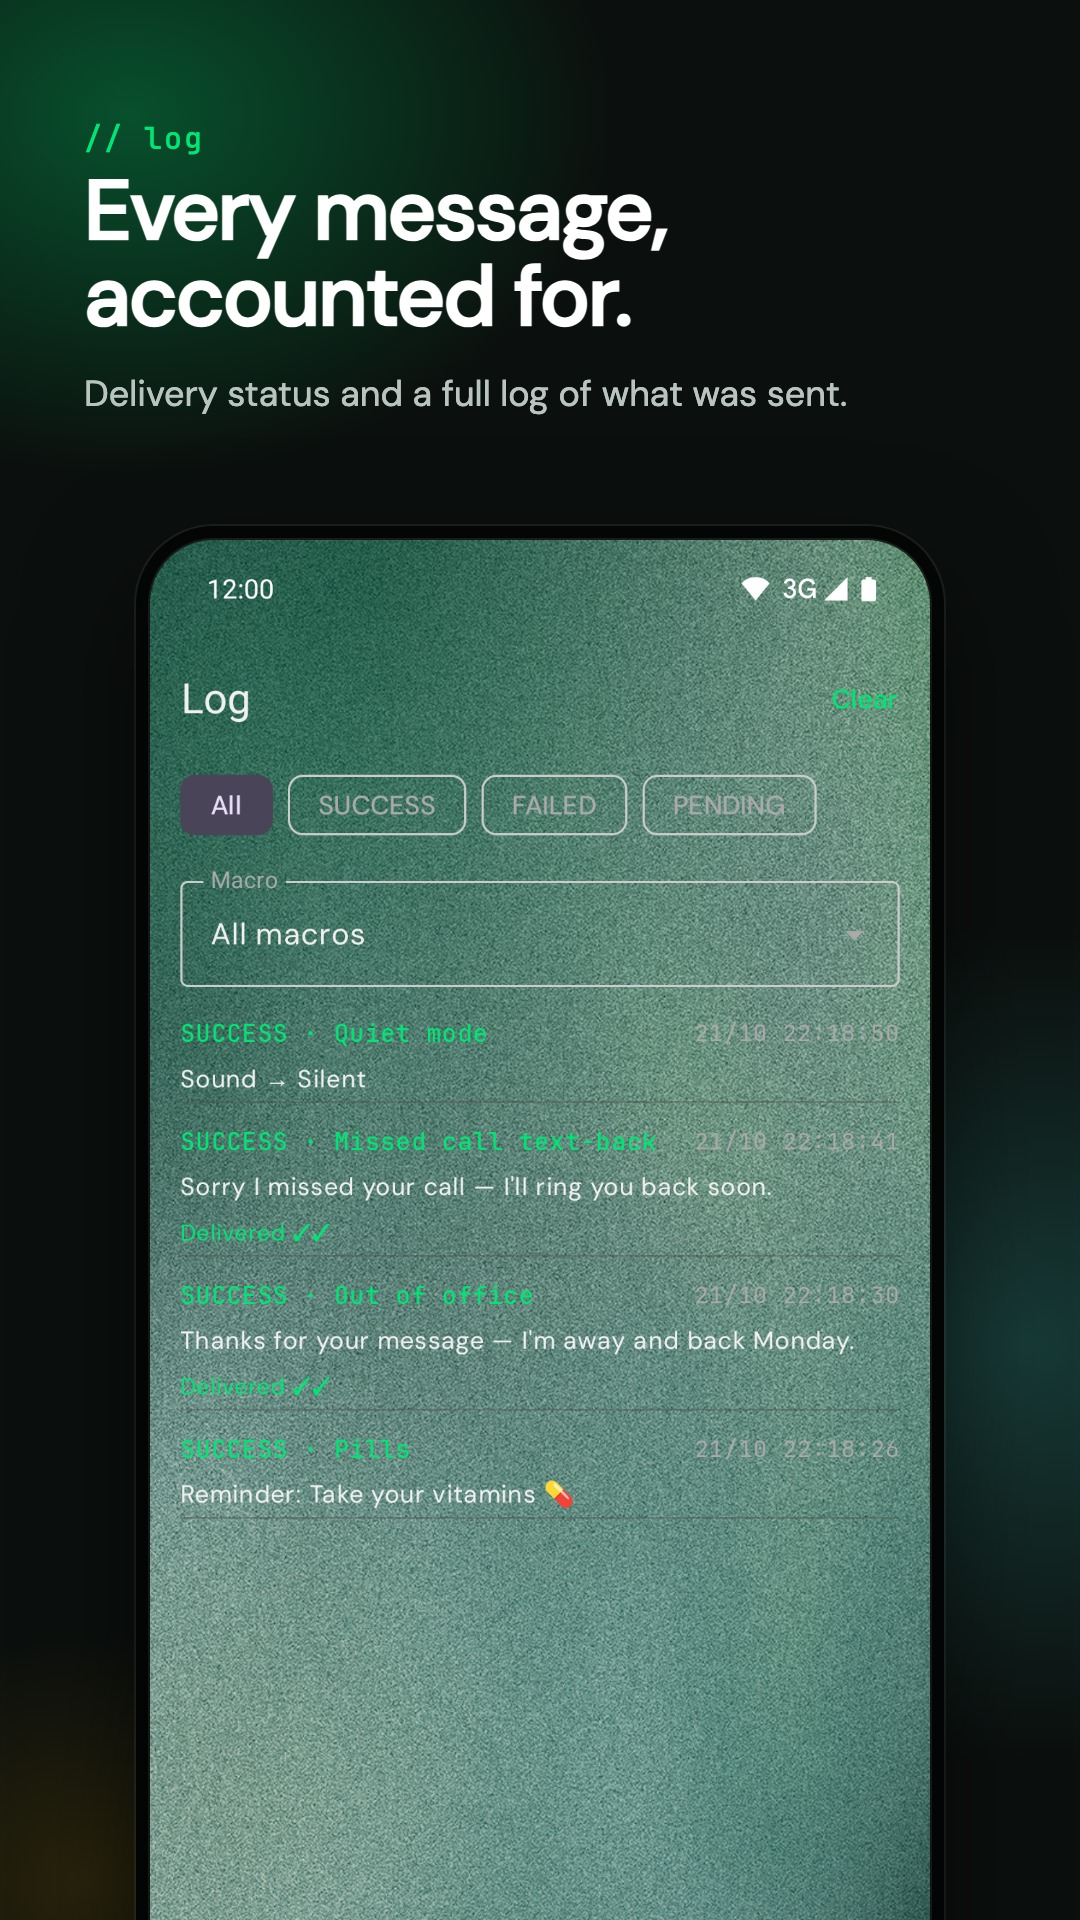
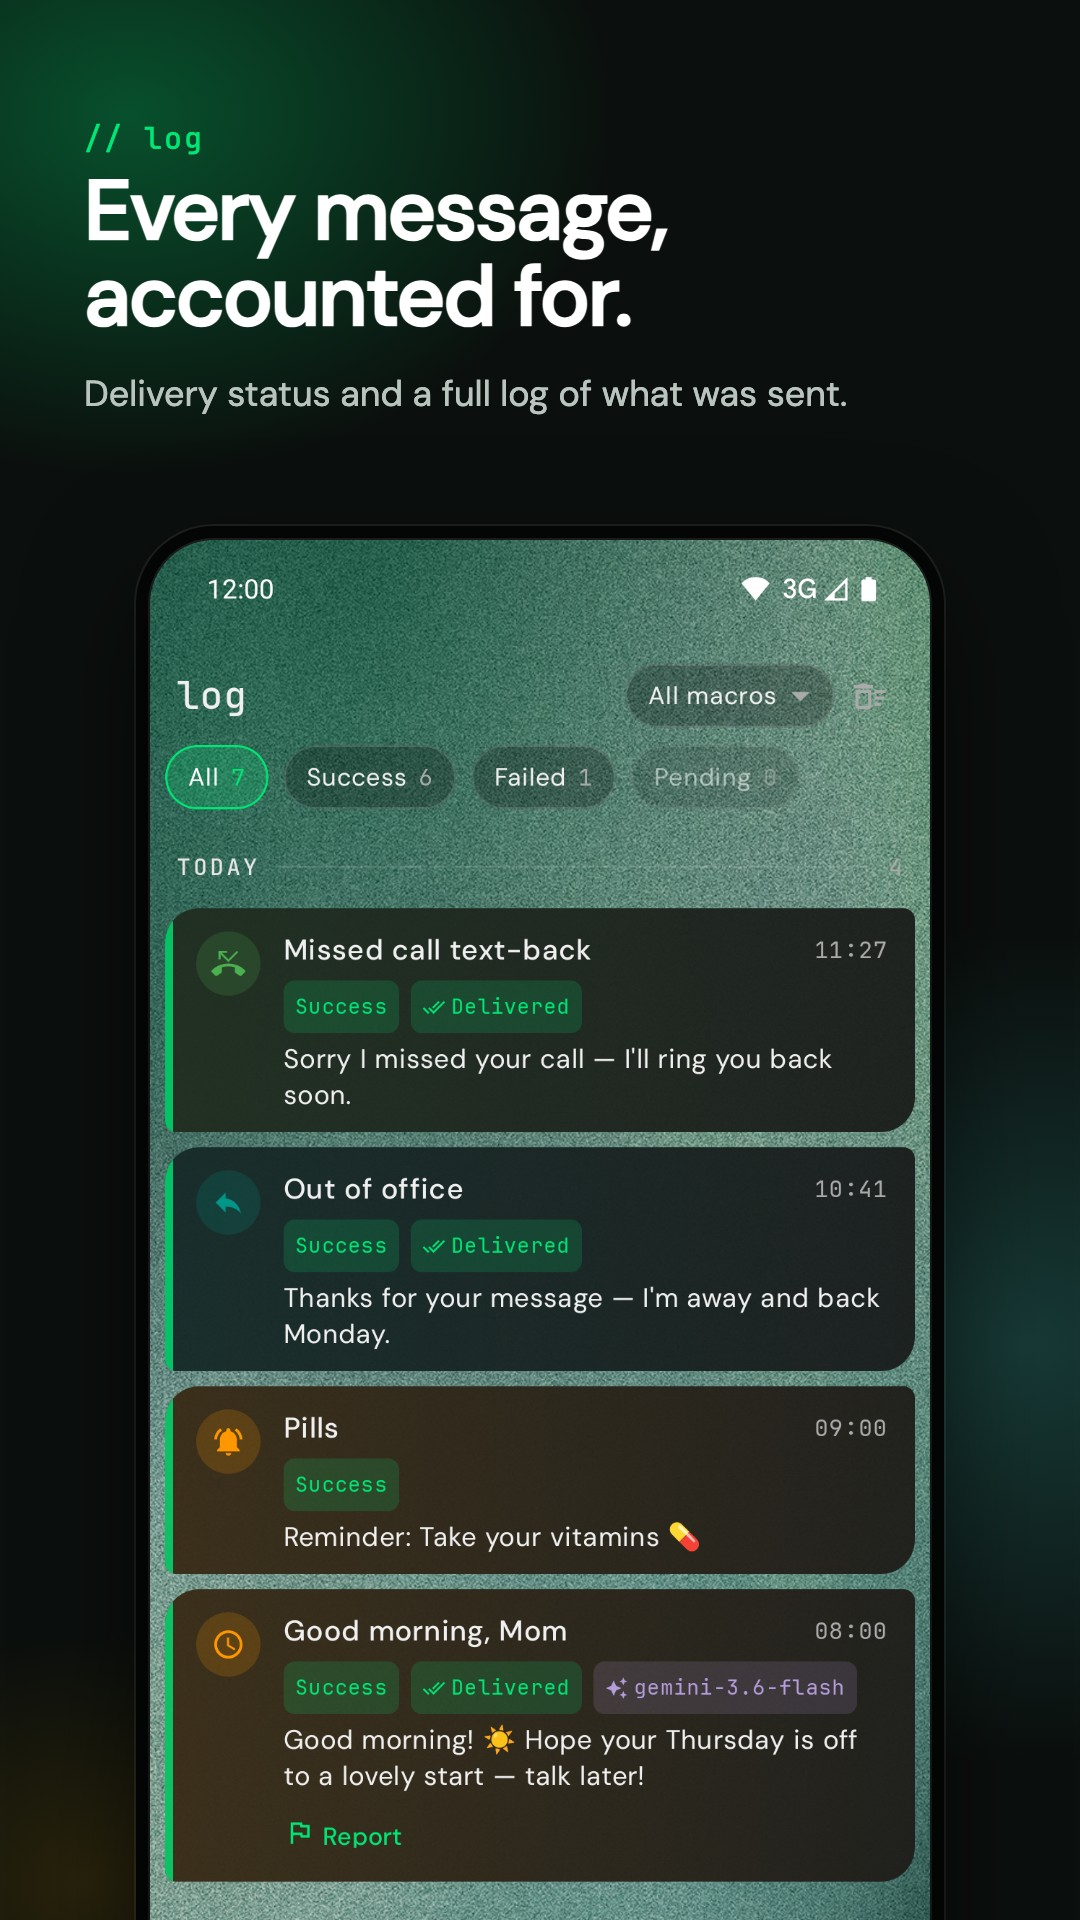
Log: Report only on AI-written text; re-capture store screenshot 05

diff --git a/app/src/main/java/com/vibeactions/ui/log/LogScreen.kt b/app/src/main/java/com/vibeactions/ui/log/LogScreen.kt
@@ -310,7 +310,11 @@ private fun LogCard(row: LogRow) {
                     maxLines = if (expanded) Int.MAX_VALUE else 2, overflow = TextOverflow.Ellipsis
                 )
             }
-            if (row.aiMacro && !log.messagePreview.isNullOrBlank()) {
+            // Only text the AI wrote can be reported: tagged with its model, or a failed send of an AI
+            // macro (the send error replaces the tag) — never a "fixed text sent" fallback.
+            val aiWritten = aiModel != null ||
+                (log.status == MacroStatus.FAILED && note?.contains("fixed text") != true)
+            if (row.aiMacro && aiWritten && !log.messagePreview.isNullOrBlank()) {
                 ReportAiButton(
                     log.messagePreview, AiReportSource.AUTO_REPLY,
                     modifier = Modifier.offset(x = (-12).dp).height(32.dp)
